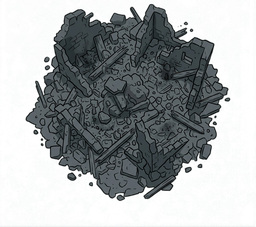
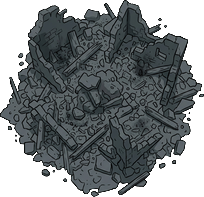
fix: Dragon Tide v0.11.1 — 陥落跡の見た目を修正（廃墟の半透明もや＋四角い穴）
Shooterのスクリーンショット報告への対応。原因は2つの複合だった:
1. 廃墟PNGの画素の46%が半透明の「もや」で、薄灰色のブロブに見えていた
   → アルファをしきい値処理（α<110を完全透過、以上は急勾配で不透明化）し
     半透明率を1.2%に浄化。実質瓦礫のみにbbox再クロップ
2. 陥落時の部分クリアで地面タイル・石畳ごと消え、暗い矩形の穴が出ていた
   → クリア範囲に地面タイルを再充填（パターン原点が全体描画と同じで継ぎ目なし）
     ＋クリア矩形にクリップした焦土グラデーションを敷いてから廃墟を描画。
     矩形外には一切かからず、多数破壊でも周囲が累積的に黒ずまない
- 廃墟サイズを×2.6→×2.2に戻す（焦土が下地を埋めるため覆い被せ不要。
  密集市街で廃墟同士が融合して灰色の塊になるのを防ぐ）
- 検証: 密集地10棟破壊後の領域で素通し0%・低α0%・エラーなし

diff --git a/prototypes/dragon-tide/index.html b/prototypes/dragon-tide/index.html
@@ -383,7 +383,7 @@
 // -----------------------------------------------------------------
 // バージョン定数（ここだけ更新すれば画面に反映される）
 // -----------------------------------------------------------------
-const GAME_VERSION = "v0.11.0";
+const GAME_VERSION = "v0.11.1";
 document.getElementById("hud-version").textContent = GAME_VERSION;
 
 /* ============================================================
@@ -3435,9 +3435,9 @@ function drawSettlementOnLayer(bctx, settlement) {
   const usedSprite = !!tinted || !!ruinImg;
 
   if (ruinImg) {
-    // v0.11: 廃墟は元建物（radius*2.3）を完全に覆うサイズに拡大し、
-    // ほぼ不透明で描いて下の元建物や地面が透けないようにする（陥落跡の見た目修正）。
-    const drawW = settlement.radius * 2.6;
+    // v0.11.1: 廃墟のサイズは建物とほぼ同等（×2.2）。下の消し残りは焦土が埋めるため
+    // 覆い被せる必要はなく、密集市街でも廃墟同士が融合して灰色の塊に見えない。
+    const drawW = settlement.radius * 2.2;
     const drawH = drawW * (ruinImg.naturalHeight / ruinImg.naturalWidth);
     // 座標由来の決定的な90度回転＋反転で同じ廃墟の並びに見えないようにする
     const seed = Math.floor(settlement.wx * 7 + settlement.wy * 13);
@@ -4503,6 +4503,37 @@ function settlementFall(settlementIndex) {
       padding * 2,
       padding * 2,
     );
+    // v0.11.1: クリアで地面テクスチャ・町の石畳ごと消えて「四角い暗い穴」が
+    // 見えていた問題の修正。まず地面タイルをクリア範囲に再充填（パターン原点が
+    // drawGroundDetailOnLayer と同じ(0,0)なので継ぎ目なく揃う）、その上に
+    // 焦土（円形グラデーション）を敷いてから廃墟を描く。
+    if (groundTileImage) {
+      const groundPattern = bc.createPattern(groundTileImage, "repeat");
+      if (groundPattern) {
+        bc.save();
+        bc.globalAlpha = 0.30;   // drawGroundDetailOnLayer と同じ濃さ
+        bc.fillStyle = groundPattern;
+        bc.fillRect(settlement.wx - padding, settlement.wy - padding, padding * 2, padding * 2);
+        bc.restore();
+      }
+    }
+    // 焦土はクリア矩形にクリップして描く: 矩形の角まで薄い焦げで覆い
+    // （石畳が消えた角の「素の地面」を隠す）、矩形の外の建物・石畳には
+    // 一切かからない＝多数の建物が壊れても周囲が累積的に黒ずまない。
+    bc.save();
+    bc.beginPath();
+    bc.rect(settlement.wx - padding, settlement.wy - padding, padding * 2, padding * 2);
+    bc.clip();
+    const scorch = bc.createRadialGradient(
+      settlement.wx, settlement.wy, 2,
+      settlement.wx, settlement.wy, padding * 1.45,
+    );
+    scorch.addColorStop(0.0, "rgba(26, 20, 14, 0.85)");
+    scorch.addColorStop(0.6, "rgba(26, 20, 14, 0.45)");
+    scorch.addColorStop(1.0, "rgba(26, 20, 14, 0.10)");
+    bc.fillStyle = scorch;
+    bc.fillRect(settlement.wx - padding, settlement.wy - padding, padding * 2, padding * 2);
+    bc.restore();
     drawSettlementOnLayer(bc, settlement);
   }
   // 建物グリッドも更新
